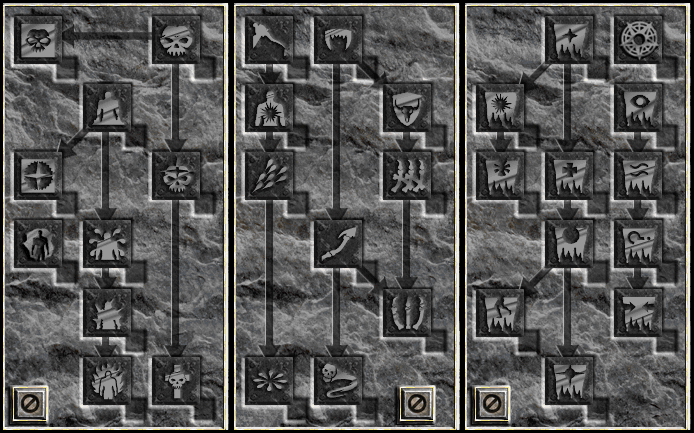
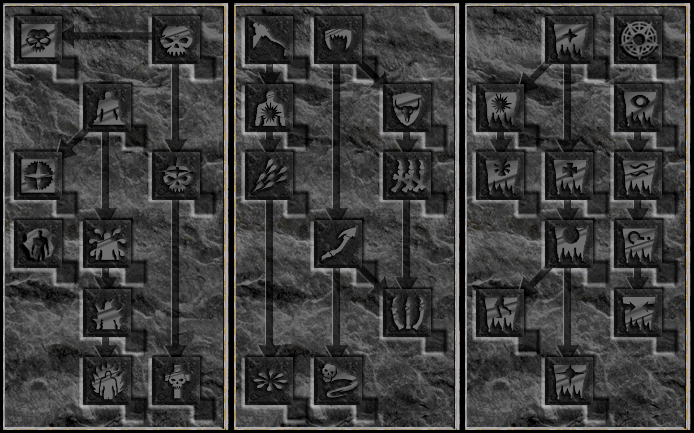
minor
* darkened new skills slightly to match previous standard
* default PD2 filenames now include "pd2" instead of "pod"

diff --git a/data/skills/PD2/amazon.js b/data/skills/PD2/amazon.js
@@ -266,11 +266,11 @@ var skills_pd2_amazon = [
 {data:d231, key:"231", code:18, name:"Slow Movement", i:12, req:[10], reqlvl:12, level:0, extra_levels:0, force_levels:0, effect:0, bindable:2, style:"display: block; top: 218px; left: 194px;", description:"Illuminates nearby enemies and slows<br>their ranged attacks and movement", syn_title:"", syn_text:"", graytext:"", text:["Slows Movement by: ","%<br>Duration: 5 seconds<br>Ranged Attacks slowed to "," percent<br>Radius: 12 yards<br>Mana Cost: 5"]},
 {data:d242, key:"242", code:19, name:"Dodge", i:13, req:[16,12,10], reqlvl:18, level:0, extra_levels:0, force_levels:0, effect:0, bindable:0, style:"display: block; top: 286px; left: 234px;", description:"Passive - You have a chance to dodge<br>a melee or missile attack when attacking<br>or standing still", syn_title:"", syn_text:"", graytext:"", text:["Grants bonus hit recovery per base level<br>",""," percent chance",""]},
 /*TODO: remove*/{data:d253, key:"253", code:20, name:"None", i:14, req:[], reqlvl:100, level:0, extra_levels:0, force_levels:0, effect:0, bindable:0, style:"display: none;", description:"", syn_title:"", syn_text:"", graytext:"", text:[""]},
-{data:d253, key:"253", code:21, name:"Penetrate", i:15, req:[11], reqlvl:24, level:0, extra_levels:0, force_levels:0, effect:0, bindable:0, style:"display: block; top: 354px; left: 334px;", description:"Passive - Increases your attack rating and lowers target defense", syn_title:"", syn_text:"", graytext:"", text:["Reduces Target Defense by 1% per Base Level<br>","To Attack Rating: +"," percent",""]},
+{data:d253, key:"253", code:21, name:"Penetrate", i:15, req:[19,11], reqlvl:24, level:0, extra_levels:0, force_levels:0, effect:0, bindable:0, style:"display: block; top: 354px; left: 334px;", description:"Passive - Increases your attack rating and lowers target defense", syn_title:"", syn_text:"", graytext:"", text:["Reduces Target Defense by 1% per Base Level<br>","To Attack Rating: +"," percent",""]},
 {data:d222, key:"222", code:22, name:"Evade", i:16, req:[], reqlvl:6, level:0, extra_levels:0, force_levels:0, effect:0, bindable:0, style:"display: block; top: 150px; left: 254px;", description:"Passive - You have a chance to dodge<br>a melee or missile attack when walking or running<br>Also grants passive movement speed", syn_title:"", syn_text:"", graytext:"", text:[""," percent chance<br>+","% Movement Speed"]},
 {data:d241, key:"241", code:23, name:"Decoy", i:17, req:[12,10], reqlvl:18, level:0, extra_levels:0, force_levels:0, bindable:1, style:"display: block; top: 286px; left: 134px;", description:"Creates a duplicate of yourself that<br>draws fire from enemies", syn_title:"", syn_text:"", graytext:"", text:["Life: +"," percent<br>Duration: "," seconds<br>Mana Cost: ",""]},
 {data:d261, key:"261", code:24, name:"Valkyrie", i:18, req:[17,12,10], reqlvl:30, level:0, extra_levels:0, force_levels:0, bindable:1, style:"display: block; top: 422px; left: 134px;", description:"Summons a powerful Valkyrie ally<br><br>Can summon an additional Valkyrie<br>at levels 20 and 30", syn_title:"<br>Valkyrie Receives Bonuses From:<br>", syn_text:"Decoy: +20% Physical Damage per Level<br>Pierce: +1% Lightning Pierce per Level<br>Penetrate: +40 Attack Rating per Level<br>Power Strike: +20% added Lightning Damage and +10% Nova Lightning Damage<br>Critical Strike", graytext:"", text:["Life: ","<br>Damage: +"," percent<br>Powerstrike Level: ","<br>Attack: +","<br>Defense Bonus: +"," percent<br>Mana Cost: ",""]},
-{data:d233, key:"233", code:25, name:"Pierce", i:19, req:[15,11], reqlvl:12, level:0, extra_levels:0, force_levels:0, effect:0, bindable:0, style:"display: block; top: 218px; left: 324px;", description:"Passive - Your missiles have a chance to<br>pass through enemies that they hit", syn_title:"", syn_text:"", graytext:"", text:[""," percent pierce chance",""]},
+{data:d233, key:"233", code:25, name:"Pierce", i:19, req:[11], reqlvl:12, level:0, extra_levels:0, force_levels:0, effect:0, bindable:0, style:"display: block; top: 218px; left: 324px;", description:"Passive - Your missiles have a chance to<br>pass through enemies that they hit", syn_title:"", syn_text:"", graytext:"", text:[""," percent pierce chance",""]},
 
 {data:d321, key:"321", code:26, name:"Cold Arrow", i:20, req:[], reqlvl:6, reqWeapon:["bow","crossbow"], level:0, extra_levels:0, force_levels:0, bindable:2, style:"display: block; top: 150px; left: 216px;", description:"Magically enhances your arrows or bolts<br>by adding cold damage and a slowing effect<br>Cold arrows only do half of their regular damage<br><br>1/4 Weapon Damage", syn_title:"<br>Cold Arrow Receives Bonuses From:<br>", syn_text:"Magic Arrow: +22% Cold Damage per Level<br>Ice Arrow: +20% Cold Damage per Level", graytext:"", text:["Converts 50% Physical Damage to Elemental Damage<br>"," arrows<br>To Attack Rating: +"," percent<br>Cold Damage: ","-","<br>Cold Length: 4 seconds<br>Mana Cost: ",""]},
 {data:d312, key:"312", code:27, name:"Magic Arrow", i:21, req:[], reqlvl:1, reqWeapon:["bow","crossbow"], level:0, extra_levels:0, force_levels:0, bindable:2, style:"display: block; top: 82px;  left: 306px;", description:"Creates a magical arrow or bolt<br>that does extra damage<br><br>1/2 Weapon Damage", syn_title:"<br>Magic Arrow Receives Bonuses From:<br>", syn_text:"Inner Sight: +15% Magic Damage per Level<br>Slow Movement: +15% Magic Damage per Level<br>Guided Arrow: +15% Magic Damage per Level", graytext:"", text:["Converts 50% Physical Damage to Magic Damage<br>"," arrows<br>To Attack Rating: +"," percent<br>Magic Damage: ","-","<br>Mana Cost: ",""]},

diff --git a/data/functions/file_save_and_load.js b/data/functions/file_save_and_load.js
@@ -69,9 +69,10 @@ function saveTextAsFile() {
 	var textToSave = document.getElementById("inputTextToSave").value;
 	var textToSaveAsBlob = new Blob([textToSave], {type:"text/plain"});
 	var textToSaveAsURL = window.URL.createObjectURL(textToSaveAsBlob);
-
+	
+	var file_prefix = "pod_"; if (game_version == 3) { file_prefix = "pd2_" }
 	var downloadLink = document.createElement("a");
-	downloadLink.download = "pod_"+character.class_name.toLowerCase();
+	downloadLink.download = file_prefix+character.class_name.toLowerCase();
 	downloadLink.innerHTML = "Download File";
 	downloadLink.href = textToSaveAsURL;
 	downloadLink.onclick = destroyClickedElement;
